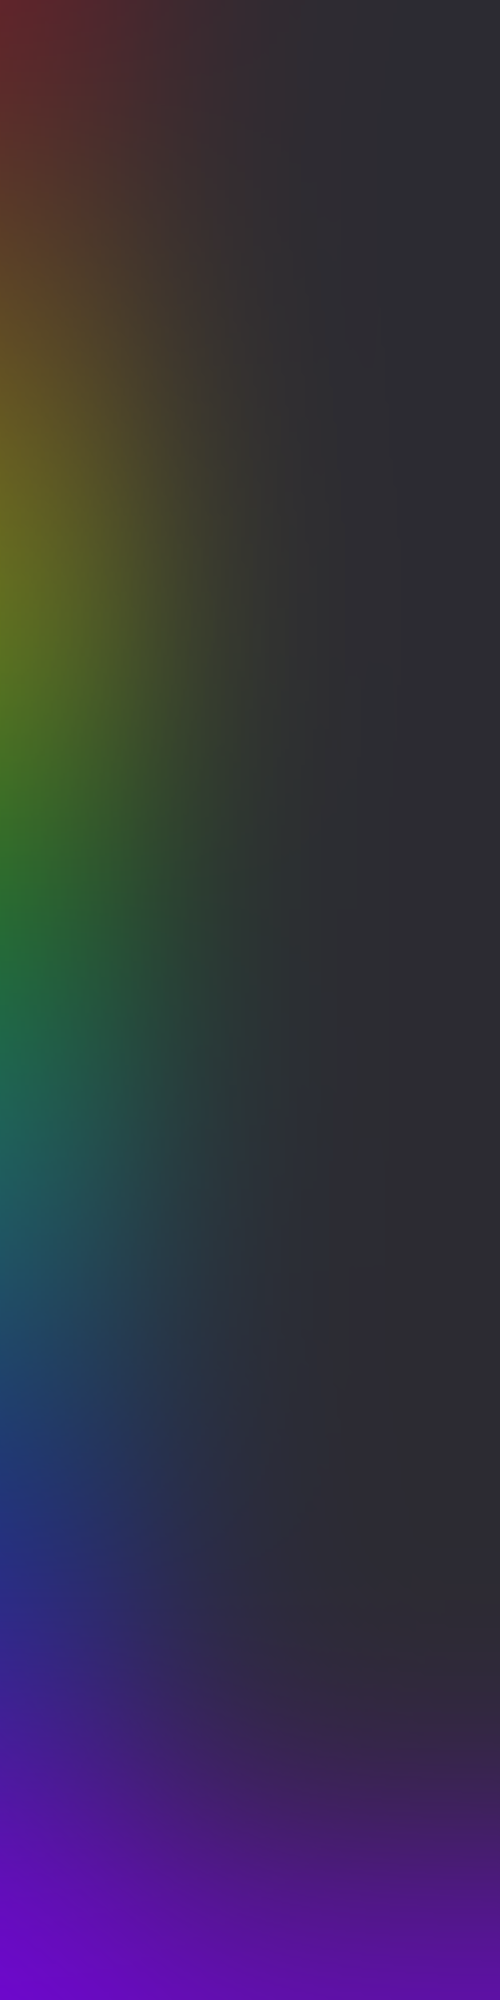
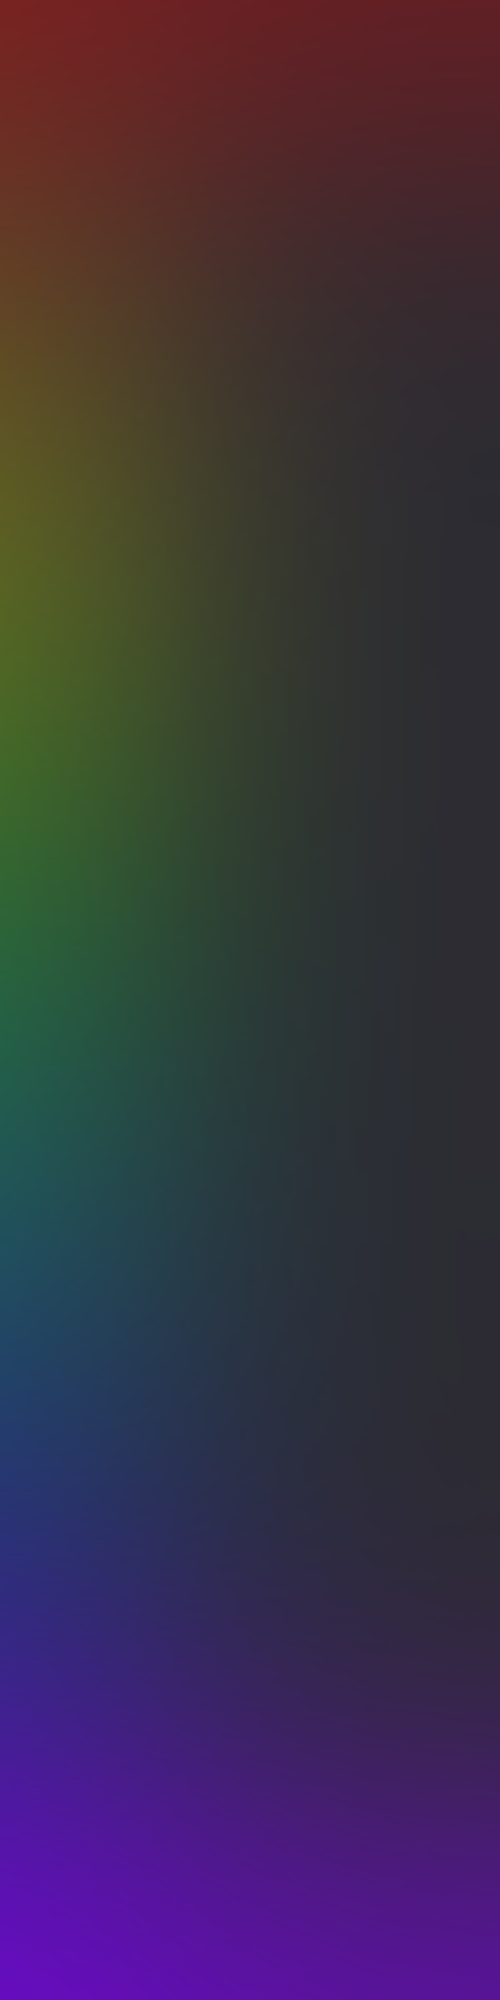
Removed background divs

Changed region(s): [[0.0, 0.0, 1.0, 0.124]]

diff --git a/main.css b/main.css
@@ -51,48 +51,11 @@ html {
 }
 body {
     font-family: "Roboto Mono", monospace;
-    background-image: url("images/bg.png");
+    background-image: url("images/bg.jpg");
     background-repeat: no-repeat;
     background-size: cover;
     color:white;
     font-size: 1.2vw;
-}
-.d2, .d1, .d3 {
-    width: 20%;
-    height: 20%;
-    animation-duration: 10s;
-    animation-iteration-count: infinite;
-    animation-direction: alternate;
-    padding: 5%;
-    filter: blur(30vh);
-    -webkit-filter: blur(25vh);
-    position: absolute;
-}
-.d1 {
-    animation-name: d1;
-    left: 5%;
-}
-.d2 {
-    animation-name: d2;
-    left:-15%;
-    top: 5%;
-}
-.d3 {
-    animation-name: d3;
-    top: 40%;
-    left:-10%;
-}
-@keyframes d3 {
-    from {background-color: #fda400;}
-    to {background-color: #f50505; }
-}
-@keyframes d1 {
-    from {background-color:  #ff0d00;}
-    to {background-color: #5720b5;}
-}
-@keyframes d2 {
-    from {background-color: #ef1010;}
-    to {background-color: #a912a9;}
 }
 .nav {
     display: flex;
@@ -312,26 +275,6 @@ h4 {
 @media (max-width: 575px) {
     body {
         background-image: url("images/mbg.png");
-    }
-    .d2, .d1, .d3 {
-        width: 40%;
-        height: 20%;
-        filter: blur(18vh);
-        -webkit-filter: blur(18vh);
-    }
-    .d1 {
-        animation-name: d1;
-        left: 30%;
-    }
-    .d2 {
-        animation-name: d2;
-        left:-15%;
-        top: 15%;
-    }
-    .d3 {
-        animation-name: d3;
-        top: 50%;
-        left:-10%;
     }
     h2 {
         font-size: 7vw;

diff --git a/index.html b/index.html
@@ -10,10 +10,6 @@
     <title>Sameen</title>
 </head>
 <body>
-    <div class="d1"></div>
-    <div class="d2"></div>
-    <div class="d3"></div>
-    </div>
     <div class="nav">
         <div id="logo">
             <a href="#">
